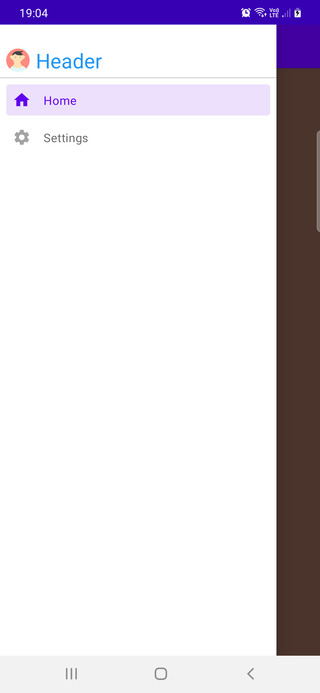
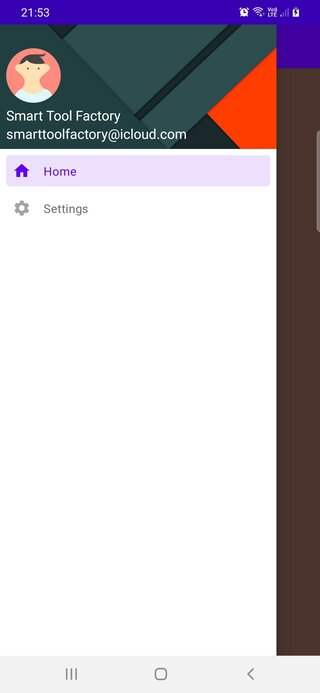
Update side navigation header

Changed region(s): [[0.0, 0.0, 0.9375, 0.3333]]

diff --git a/Tutorial1-1Basics/src/main/java/com/smarttoolfactory/tutorial1_1basics/chapter2_material_widgets/Tutorial2_9Scaffold.kt b/Tutorial1-1Basics/src/main/java/com/smarttoolfactory/tutorial1_1basics/chapter2_material_widgets/Tutorial2_9Scaffold.kt
@@ -1,5 +1,6 @@
 package com.smarttoolfactory.tutorial1_1basics.chapter2_material_widgets
 
+import android.content.res.Configuration
 import androidx.compose.foundation.Image
 import androidx.compose.foundation.background
 import androidx.compose.foundation.layout.*
@@ -13,18 +14,21 @@ import androidx.compose.runtime.*
 import androidx.compose.ui.Alignment
 import androidx.compose.ui.Modifier
 import androidx.compose.ui.draw.clip
-import androidx.compose.ui.draw.shadow
 import androidx.compose.ui.graphics.Color
 import androidx.compose.ui.graphics.ColorFilter
 import androidx.compose.ui.graphics.vector.ImageVector
+import androidx.compose.ui.layout.ContentScale
 import androidx.compose.ui.res.painterResource
 import androidx.compose.ui.text.font.FontWeight
+import androidx.compose.ui.tooling.preview.Devices
+import androidx.compose.ui.tooling.preview.Preview
 import androidx.compose.ui.unit.dp
 import androidx.compose.ui.unit.sp
 import androidx.navigation.compose.NavHost
 import androidx.navigation.compose.composable
 import androidx.navigation.compose.rememberNavController
 import com.smarttoolfactory.tutorial1_1basics.R
+import com.smarttoolfactory.tutorial1_1basics.ui.ComposeTutorialsTheme
 import kotlinx.coroutines.launch
 
 @Composable
@@ -101,10 +105,7 @@ fun AppDrawer(
 ) {
 
     Column(modifier = Modifier.fillMaxSize()) {
-        Spacer(Modifier.height(24.dp))
         DrawerHeader()
-        Divider(color = MaterialTheme.colors.onSurface.copy(alpha = .2f))
-
         DrawerButton(
             icon = Icons.Filled.Home,
             label = "Home",
@@ -131,25 +132,56 @@ fun AppDrawer(
     }
 }
 
+@Preview
+@Preview("dark", uiMode = Configuration.UI_MODE_NIGHT_YES)
+@Preview(device = Devices.PIXEL_C)
+@Composable
+fun AppDrawerPreview() {
+    ComposeTutorialsTheme {
+        AppDrawer(
+            currentRoute = Routes.HOME_ROUTE,
+            navigateToHome = {},
+            navigateToSettings = {},
+            closeDrawer = {}
+        )
+    }
+}
+
 @Composable
 private fun DrawerHeader() {
-    Row(
-        modifier = Modifier.padding(horizontal = 8.dp, vertical = 4.dp),
-        verticalAlignment = Alignment.CenterVertically
-    ) {
+
+    Box(contentAlignment = Alignment.BottomStart, modifier = Modifier.background(Color.Green)) {
         Image(
-            modifier = Modifier
-                .size(30.dp)
-                .clip(CircleShape),
-            painter = painterResource(id = R.drawable.avatar_1_raster),
+            contentScale = ContentScale.Crop,
+            modifier = Modifier.height(160.dp),
+            painter = painterResource(id = R.drawable.drawer_bg2),
             contentDescription = null
         )
-        Spacer(modifier = Modifier.width(8.dp))
-        Text(
-            text = "Header",
-            fontSize = 24.sp,
-            color = Color(0xff2196F3)
-        )
+
+        Column(modifier = Modifier.padding(8.dp)) {
+            Spacer(modifier = Modifier.height(8.dp))
+            Image(
+                modifier = Modifier
+                    .size(70.dp)
+                    .clip(CircleShape),
+                painter = painterResource(id = R.drawable.avatar_1_raster),
+                contentDescription = null
+            )
+
+            Spacer(modifier = Modifier.height(4.dp))
+            Text(text = "Smart Tool Factory", color = Color.White)
+            Text(text = "smarttoolfactory@icloud.com", color = Color.White)
+        }
+    }
+}
+
+@Preview
+@Preview("dark", uiMode = Configuration.UI_MODE_NIGHT_YES)
+@Preview(device = Devices.PIXEL_C)
+@Composable
+fun DrawerHeaderPreview() {
+    ComposeTutorialsTheme {
+        DrawerHeader()
     }
 }
 
@@ -212,6 +244,23 @@ private fun DrawerButton(
     }
 }
 
+@Preview
+@Preview("dark", uiMode = Configuration.UI_MODE_NIGHT_YES)
+@Preview(device = Devices.PIXEL_C)
+@Composable
+fun DrawerButtonPreview() {
+    ComposeTutorialsTheme {
+        DrawerButton(
+            icon = Icons.Filled.Home,
+            label = "Home",
+            isSelected = true,
+            action = {
+
+            }
+        )
+    }
+}
+
 @Composable
 fun HomeComponent() {
     Box(
@@ -224,6 +273,16 @@ fun HomeComponent() {
     }
 }
 
+@Preview
+@Preview("dark", uiMode = Configuration.UI_MODE_NIGHT_YES)
+@Preview(device = Devices.PIXEL_C)
+@Composable
+fun HomeComponentPreview() {
+    ComposeTutorialsTheme {
+        HomeComponent()
+    }
+}
+
 @Composable
 fun SettingsComponent() {
     Box(
@@ -233,6 +292,16 @@ fun SettingsComponent() {
             .background(Color(0xffFF6F00))
     ) {
         Text(color = Color.White, text = "Settings", fontSize = 50.sp, fontWeight = FontWeight.Bold)
+    }
+}
+
+@Preview
+@Preview("dark", uiMode = Configuration.UI_MODE_NIGHT_YES)
+@Preview(device = Devices.PIXEL_C)
+@Composable
+fun SettingsComponentPreview() {
+    ComposeTutorialsTheme {
+        SettingsComponent()
     }
 }
 

diff --git a/Tutorial1-1Basics/src/main/java/com/smarttoolfactory/tutorial1_1basics/chapter2_material_widgets/Tutorial2_8BottomAppbar.kt b/Tutorial1-1Basics/src/main/java/com/smarttoolfactory/tutorial1_1basics/chapter2_material_widgets/Tutorial2_8BottomAppbar.kt
@@ -1,5 +1,6 @@
 package com.smarttoolfactory.tutorial1_1basics.chapter2_material_widgets
 
+import android.content.res.Configuration
 import androidx.compose.foundation.background
 import androidx.compose.foundation.layout.*
 import androidx.compose.foundation.shape.CircleShape
@@ -9,7 +10,10 @@ import androidx.compose.material.icons.filled.*
 import androidx.compose.runtime.Composable
 import androidx.compose.ui.Modifier
 import androidx.compose.ui.graphics.Color
+import androidx.compose.ui.tooling.preview.Devices
+import androidx.compose.ui.tooling.preview.Preview
 import androidx.compose.ui.unit.dp
+import com.smarttoolfactory.tutorial1_1basics.ui.ComposeTutorialsTheme
 
 @Composable
 fun Tutorial2_8Screen(onBack: (() -> Unit)? = null) {
@@ -52,7 +56,7 @@ private fun TutorialContent(onBack: (() -> Unit)? = null) {
 }
 
 @Composable
-private fun BottomAppBarComponent(onBack: (() -> Unit)?) {
+private fun BottomAppBarComponent(onBack: (() -> Unit)?=null) {
     BottomAppBar(
         backgroundColor = MaterialTheme.colors.surface,
         contentColor = MaterialTheme.colors.onSurface,
@@ -73,5 +77,15 @@ private fun BottomAppBarComponent(onBack: (() -> Unit)?) {
         IconButton(onClick = { }) {
             Icon(Icons.Filled.Search, contentDescription = null)
         }
+    }
+}
+
+@Preview
+@Preview("dark", uiMode = Configuration.UI_MODE_NIGHT_YES)
+@Preview(device = Devices.PIXEL_C)
+@Composable
+fun BottomAppBarComponentPreview() {
+    ComposeTutorialsTheme {
+        BottomAppBarComponent()
     }
 }

diff --git a/Tutorial1-1Basics/src/main/java/com/smarttoolfactory/tutorial1_1basics/chapter7_custom_components/CustomComponent.kt b/Tutorial1-1Basics/src/main/java/com/smarttoolfactory/tutorial1_1basics/chapter7_custom_components/CustomComponent.kt
@@ -1,0 +1,17 @@
+package com.smarttoolfactory.tutorial1_1basics.chapter7_custom_components
+
+import androidx.compose.foundation.Canvas
+import androidx.compose.foundation.layout.aspectRatio
+import androidx.compose.runtime.Composable
+import androidx.compose.ui.Modifier
+import androidx.compose.ui.platform.LocalDensity
+
+@Composable
+fun CustomComponent(modifier: Modifier = Modifier) {
+
+   val density = LocalDensity.current
+
+    Canvas(modifier = modifier.aspectRatio(1f), onDraw = {
+        
+    })
+}

diff --git a/Tutorial1-1Basics/src/main/java/com/smarttoolfactory/tutorial1_1basics/model/Tags.kt b/Tutorial1-1Basics/src/main/java/com/smarttoolfactory/tutorial1_1basics/model/Tags.kt
@@ -71,7 +71,7 @@ const val TAG_NAVIGATION_DRAWER = "Side Navigation"
 const val TAG_DRAWER_STATE = "DrawerState"
 
 // BOTTOM SHEET
-
+const val TAG_BOTTOM_SHEET = "BottomSheet"
 // ALERT DIALOG
 
 // CHECK BOX, RADIO, PROGRESSBAR, SNACKBAR
